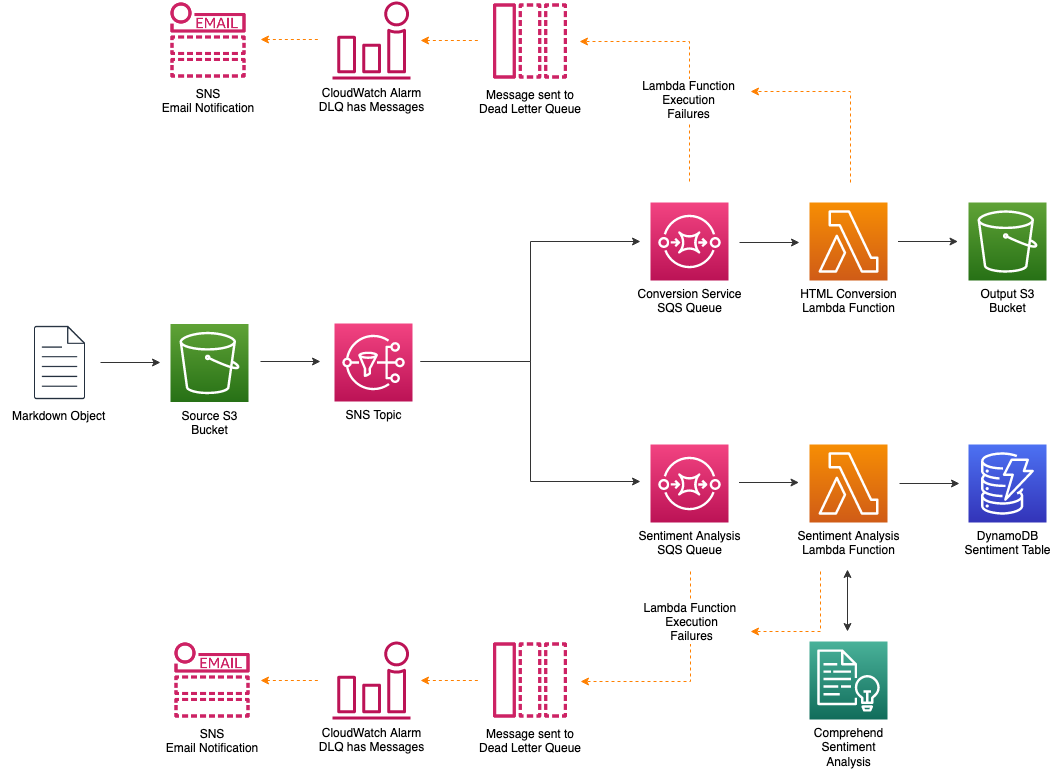
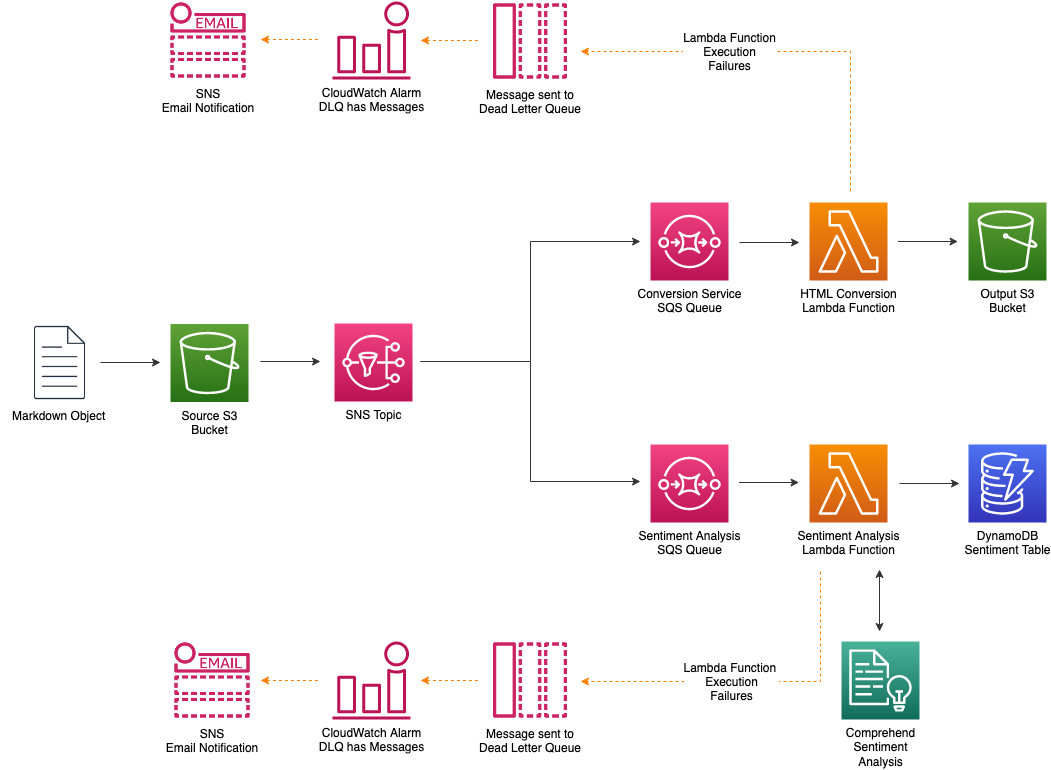
Remove redrive policy from SQS, update ref architecture diagram
It is better to standardize on function EventInvokeConfig forerror destinations.

Changed region(s): [[0.7612, 0.8104, 0.883, 0.9974], [0.6089, 0.0312, 0.7307, 0.1558], [0.6089, 0.7792, 0.7307, 0.9039]]

diff --git a/README.md b/README.md
@@ -2,7 +2,7 @@
 
 The Real-time File Processing reference architecture is a general-purpose, event-driven, parallel data processing architecture that uses [AWS Lambda](https://aws.amazon.com/lambda). This architecture is ideal for workloads that need more than one data derivative of an object. 
 
-In this example application we deliver the notes from an interview in Markdown format to S3.  CloudWatch Events is used to trigger multiple processing flows - one to convert and persist Markdown files to HTML and another to detect and persist sentiment.
+In this example application, we deliver notes from an interview in Markdown format to S3.  S3 Events are used to trigger multiple processing flows - one to convert and persist Markdown files to HTML and another to detect and persist sentiment.
 
 ## Architectural Diagram
 
@@ -12,7 +12,7 @@ In this example application we deliver the notes from an interview in Markdown f
 
 ### Event Trigger
 
-Unlike batch processing, in this architecture we process each individual file as it arrives. To achive this we utilize [AWS S3 Events](https://docs.aws.amazon.com/AmazonS3/latest/dev/NotificationHowTo.html) and [Amazon Simple Notification Service](https://docs.aws.amazon.com/sns/latest/dg/welcome.html). When an object is created in S3, an event is emitted to a SNS topic. We deliver our event to 2 seperate [SQS Queues](https://aws.amazon.com/sqs/), representing 2 different workflows. Refer to [What is Amazon Simple Notification Service?](https://docs.aws.amazon.com/sns/latest/dg/welcome.html) for more information about eligible targets.
+In this architecture, individual files are processed as they arrive. To achive this, we utilize [AWS S3 Events](https://docs.aws.amazon.com/AmazonS3/latest/dev/NotificationHowTo.html) and [Amazon Simple Notification Service](https://docs.aws.amazon.com/sns/latest/dg/welcome.html). When an object is created in S3, an event is emitted to a SNS topic. We deliver our event to 2 seperate [SQS Queues](https://aws.amazon.com/sqs/), representing 2 different workflows. Refer to [What is Amazon Simple Notification Service?](https://docs.aws.amazon.com/sns/latest/dg/welcome.html) for more information about eligible targets.
 
 ### Conversion Workflow
 
@@ -186,7 +186,7 @@ creates the following resources:
 
 - **ConversionQueue** - A SQS queue that is used to store events for conversion from Markdown to HTML.
 
-- **ConversionDlq** - A SQS queue that is used to capture messages that cannot be processed by the **ConversionFunction**.  The *RedrivePolicy* on the **ConversionQueue** is used to manage how traffic makes it to this queue.
+- **ConversionDlq** - A SQS queue that is used to capture messages that cannot be processed by the **ConversionFunction**.
 
 - **ConversionFunction** - A Lambda function that takes the input file, converts it to HTML, and stores the resulting file to **ConversionTargetBucket**.  Errors in the function will be sent to the **ConversionDlq**.
 
@@ -196,13 +196,13 @@ creates the following resources:
 
 - **SentimentQueue** - A SQS queue that is used to store events for sentiment analysis processing.
 
-- **SentimentDlq** - A SQS queue that is used to capture messages that cannot be processed by the **SentimentFunction**.  The *RedrivePolicy* on the **SentimentQueue** is used to manage how traffic makes it to this queue.
+- **SentimentDlq** - A SQS queue that is used to capture messages that cannot be processed by the **SentimentFunction**.
 
 - **SentimentFunction** - A Lambda function that takes the input file, performs sentiment analysis, and stores the output to the **SentimentTable**.  Errors in the function will be sent to the **SentimentDlq**.
 
 - **SentimentTable** - A DynamoDB table that stores the input file along with the sentiment.
 
-- **AlarmTopic** - A SNS topic that has an email as a subscriber.  This topic is used to receive alarms from the **ConversionDlqAlarm** and **SentimentDlqAlarm**.
+- **AlarmTopic** - A SNS topic that has an email as a subscriber.  This topic is used to receive alarms from the **ConversionDlqAlarm**, **SentimentDlqAlarm**, **ConversionQueueAlarm**, **SentimentQueueAlarm**, **ConversionFunctionErrorRateAlarm**, **SentimentFunctionErrorRateAlarm**, **ConversionFunctionThrottleRateAlarm**, and **SentimentFunctionThrottleRateAlarm**.
 
 - **ConversionDlqAlarm** - A CloudWatch Alarm that detects when there there are any messages sent to the **ConvesionDlq** within a 1 minute period and sends a notification to the **AlarmTopic**.
 
